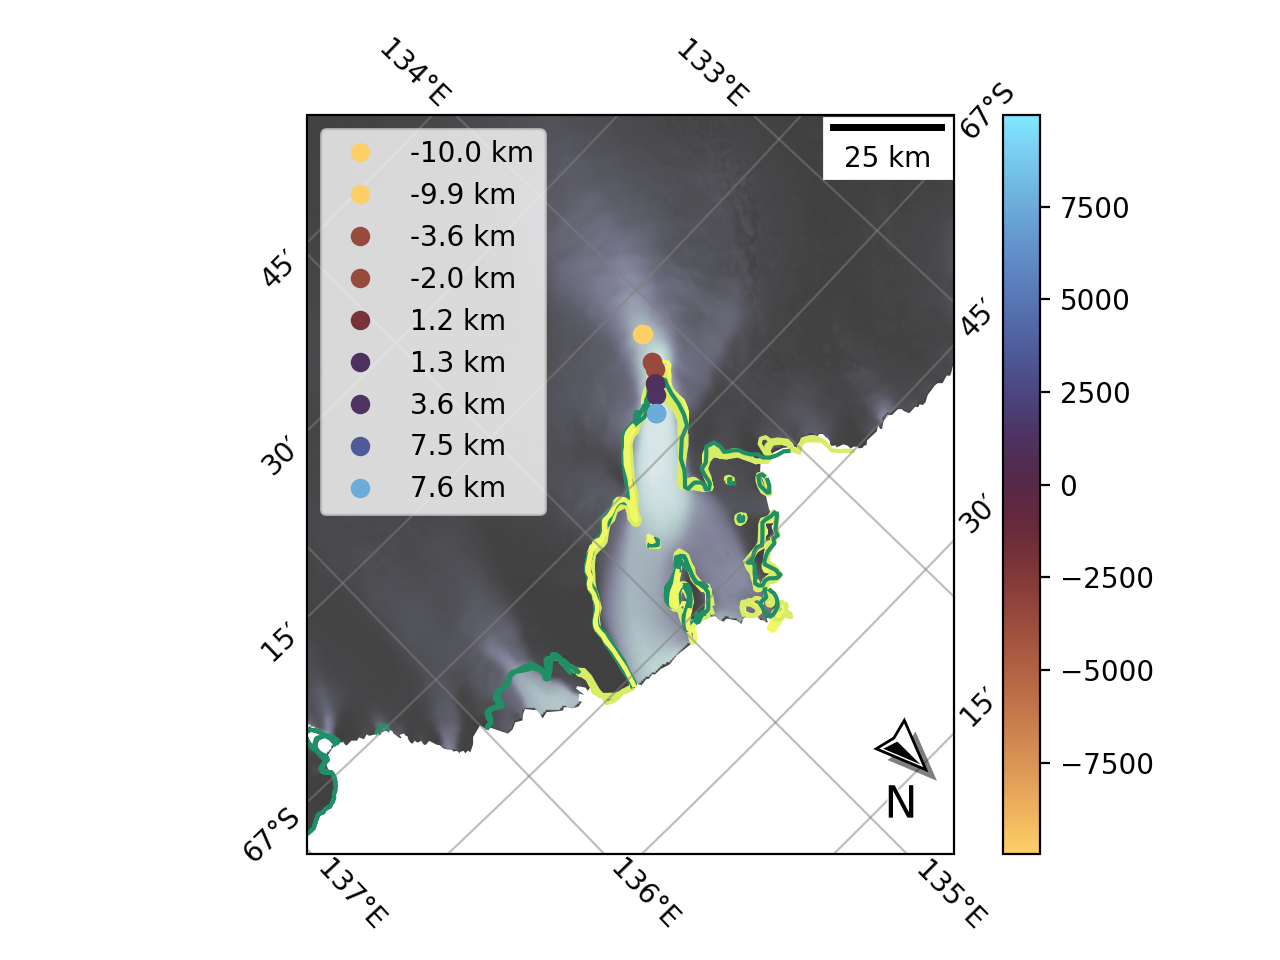
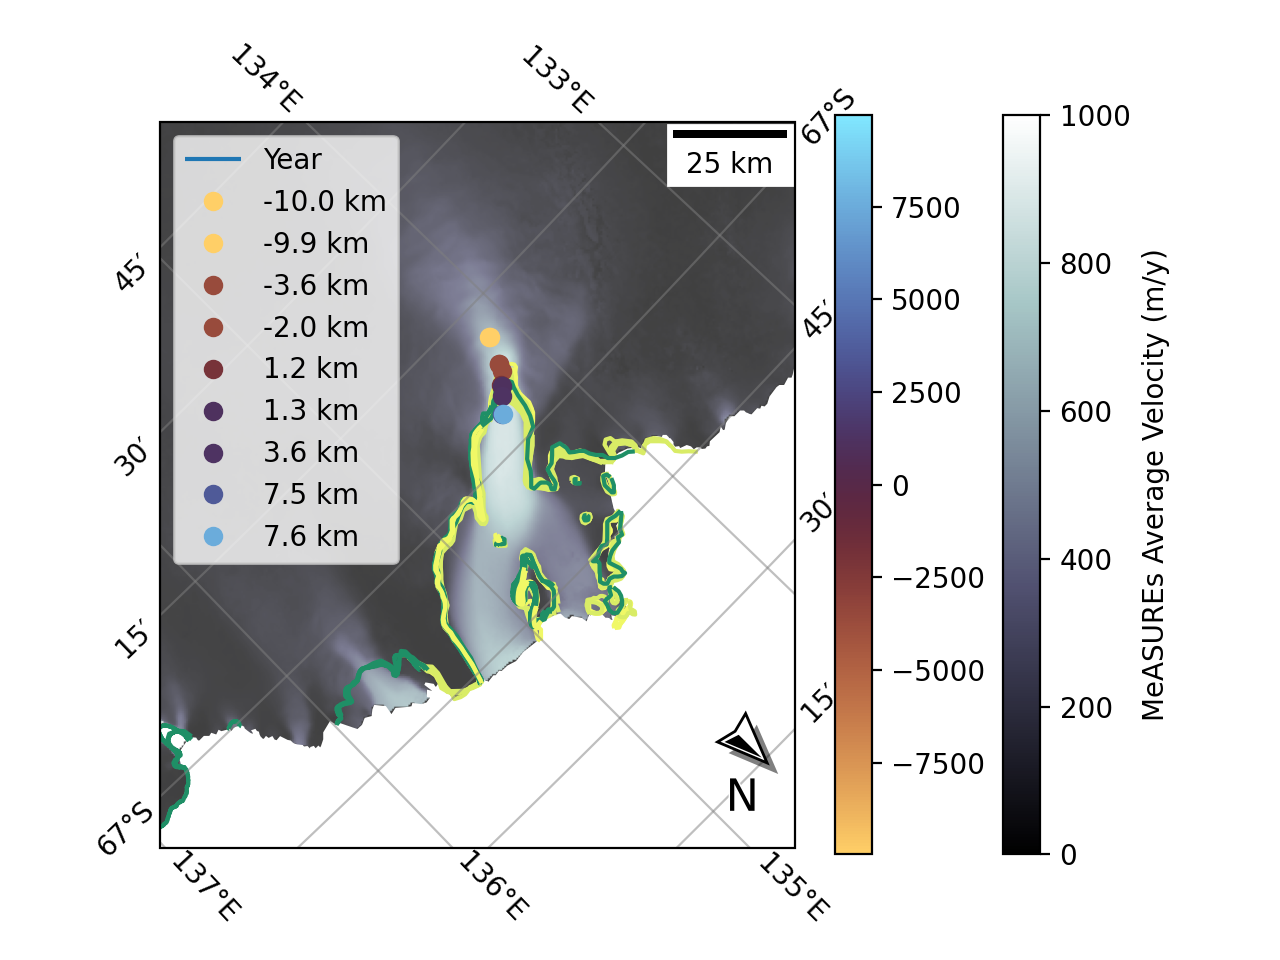
more plotting, like framed velocities

diff --git a/src/plotting.py b/src/plotting.py
@@ -146,16 +146,21 @@ class Plotting:
         self.plot_glacier_borders(fig, ax)
         return True
 
-    def plot_gpkg(self, fig, ax, gpkg, coloring=None, cmap='summer'):
+    def plot_gpkg(self, fig, ax, gpkg, coloring=None, cmap='summer', cbar=False):
         gdf = gpd.read_file(gpkg)
         gdf = gdf.to_crs(3031)
+        
         if coloring != None:
-            gdf.plot(ax=ax, column=coloring, cmap=cmap, autolim=False)
+            gdf.plot(ax=ax, column=coloring, cmap=cmap, autolim=False, label=coloring)
+            if cbar:
+                colorb = plt.cm.ScalarMappable(cmap=cmap, norm=colors.Normalize(vmin=min(gdf[coloring]), vmax=max(gdf[coloring])))
+                fig.colorbar(colorb, orientation='vertical', label=cbar + " " + coloring, ax=ax)
         else:
             gdf.plot(ax=ax, autolim=False)
 
-    def plot_temporal_grounding_line(self, fig, ax, cmap='summer'):
-        self.plot_gpkg(fig, ax, GL_GPKG_InSAR, 'Year', cmap=cmap)
+    def plot_temporal_grounding_line(self, fig, ax, cmap='summer', cbar=False):
+
+        self.plot_gpkg(fig, ax, GL_GPKG_InSAR, 'Year', cmap=cmap, cbar=cbar)
 
     def plot_raw_rema_data(self, na, year):
         try:
@@ -195,7 +200,7 @@ class Plotting:
         
         if legend:
             colorb = plt.cm.ScalarMappable(cmap=cmap, norm=colors.Normalize(vmin=vmin, vmax=vmax))
-            #fig.colorbar(colorb, orientation='vertical', label=label, ax=ax)
+            fig.colorbar(colorb, orientation='vertical', label=label, ax=ax)
         
         
         plt.imshow(img, cmap=cmap, extent = extent, origin='upper', vmin=vmin, vmax=vmax, alpha=alpha, zorder=-10)
@@ -284,7 +289,7 @@ class Plotting:
         fig, ax = self.make_cartopy_plot()
         
         if velocity:
-            self.plot_geotiff("shapefiles/qantarctica_velocities.tif", fig, ax, alpha=vel_a, cmap="bone", label='Velocity from QAntarctica (m/y)')
+            self.plot_geotiff("shapefiles/qantarctica_velocities.tif", fig, ax, alpha=vel_a, cmap="bone", label='MeASUREs Average Velocity (m/y)')
             self.mask_outside()
         self.plot_temporal_grounding_line(fig, ax)
         
@@ -372,7 +377,7 @@ class Plotting:
 
 
 
-    def plot_col(self, gdf, colm, vmax, vmin, cmap, color_label, grounding_color='black', glacial_color='slategrey', velocities=None, extent=None):
+    def plot_col(self, gdf, colm, vmax, vmin, cmap, color_label, grounding_color='black', glacial_color='slategrey', velocities=None, extent=None, g_cbar=False, g_cmap='bone_r'):
         print("Plotting ATL11_" + colm + ".png")
         
         
@@ -382,7 +387,7 @@ class Plotting:
         if extent == None:
             extent = self.extent
         
-        self.plot_temporal_grounding_line(fig, ax, cmap='bone_r')
+        self.plot_temporal_grounding_line(fig, ax, cmap=g_cmap, cbar=g_cbar)
         
         colorb = plt.cm.ScalarMappable(cmap=cmap, norm=colors.Normalize(vmin=vmin, vmax=vmax))
         plt.title(' '.join(color_label.split(' ')[:-2]))
@@ -416,10 +421,62 @@ class Plotting:
         
         plt.close('all')
 
-p = Plotting()
+        
+    def plot_only_geotiff(self, fname, title, label, vmax, vmin, cmap='RdYlBu', extent=None, gl=True, legend=True):
+        if extent == None:
+            extent = self.extent
+        fig, ax = self.make_cartopy_plot()
+        fig.set_figheight(5.8)
 
-gdf = gpd.read_file(ELEVATION_LOCATION)
-p.plot_col(gdf, 'trend', 1, -1, 'bwr_r', "IceSAT2 (2018-2024) Elevation Trend (m/yr)", velocities=None)
+        colorb = plt.cm.ScalarMappable(cmap=cmap, norm=colors.Normalize(vmin=vmin, vmax=vmax))
+        plt.title(title)
+        if gl:
+            self.plot_temporal_grounding_line(fig, ax, cmap='bone_r')
+        
+        
+        if extent == None:
+            extent = self.extent
+
+        if gl != 'only':
+        
+            self.plot_geotiff(fname, fig, ax, alpha=1, cmap=cmap, vmin=vmin, vmax=vmax, legend=legend)
+
+
+        self.mask_outside(extent=extent)
+        self.add_cartopy_reference_info(fig, ax, extent=extent)
+        fig.colorbar(colorb, orientation='vertical', label=label, ax=ax)
+            
+        
+        print("Saving image...")
+        name = OUTPUT + "images/" + title + ".png"
+        plt.savefig(name, dpi=200)
+        print(name)
+        
+        plt.close('all')
+
+        
+    def frame(self):
+        p = Plotting()
+        for f in TO_FRAME.keys():
+            if f.strip() == '':
+                p.plot_only_geotiff(INPUT + 'to_frame/' + f, TO_FRAME[f]['title'], TO_FRAME[f]['label'],
+                                    TO_FRAME[f]['vmax'], TO_FRAME[f]['vmin'], cmap=TO_FRAME[f]['cmap'], gl=TO_FRAME[f]['gl'], legend=False)
+
+            else:
+                p.plot_only_geotiff(INPUT + 'to_frame/' + f, TO_FRAME[f]['title'], TO_FRAME[f]['label'],
+                                    TO_FRAME[f]['vmax'], TO_FRAME[f]['vmin'], cmap=TO_FRAME[f]['cmap'], gl=TO_FRAME[f]['gl'], legend=False)
+
+
+    def plot_IPR_range(self, fm, frame):
+        out = fm.get_ouput_files()
+
+        out = out[out['FRAME'] == frame]
+        total_dist=50
+        out['Distance'] = total_dist * ((out['UTCTIMESOD'] - min(out['UTCTIMESOD'])) / (max(out['UTCTIMESOD']) - min(out['UTCTIMESOD'])))
+        print(out) 
+        #8778, 8393,
+        self.plot_col(out, 'Distance', total_dist, 0, 'winter', 'Distance (km)',g_cbar='Grounding Line', g_cmap='magma')
+        
 
 '''
 # EXAMPLE USES:

diff --git a/src/file_manager.py b/src/file_manager.py
@@ -528,7 +528,7 @@ class ElevationManager(FileManager):
                 continue
 
             if self.data + '_yerr' in df.columns:
-                found_err.append(df[self.data + '_yerr'].values)
+                found_err.append(df['elev_yerr'].values)
 
             found_files.append(df['band_data'].values)
             found_years.append(years[i])
@@ -537,9 +537,9 @@ class ElevationManager(FileManager):
 
         dataset = {'time': found_years,
                            'sources': found_sources,
-                           self.data: found_files}
+                           'elevation': found_files}
         if len(found_err) != 0:
-            dataset[[self.data + '_yerr']] = found_err
+            dataset[['elev_yerr']] = found_err
 
 
 
@@ -662,13 +662,13 @@ class ElevationManager(FileManager):
             dates = (track['delta_time'].astype('timedelta64[s]') + np.datetime64("2018-01-01T00:00")).astype('M8[Y]')
             track['latitude'] = np.transpose([track['latitude']] * len(track['h_corr'][0]))
             track['longitude'] = np.transpose([track['longitude']] * len(track['h_corr'][0]))
-            track['datetime'] = track['delta_time'].astype('timedelta64[s]') + np.datetime64("2018-01-01T00:00")
+            track['datetime'] = (track['delta_time'].astype('timedelta64[s]') + np.datetime64("2018-01-01T00:00")).astype('datetime64[s]').astype('int64')
 
             for c in self.file.keys():
                 df = pd.DataFrame({'latitude': track['latitude'][dates == c].flatten(),
                                     'longitude': track['longitude'][dates == c].flatten(), 
                                     'elevation': track['h_corr'][dates == c].flatten(),
-                                    'elevation_yerr': track['h_corr_sigma'][dates == c].flatten(),
+                                    'elev_yerr': track['h_corr_sigma'][dates == c].flatten(),
                                     'date': track['datetime'][dates == c].flatten()})
                 df['geometry'] = df.apply(self.pointify, axis=1)
                 self.file[c] = pd.concat([self.file[c], df])
@@ -685,8 +685,9 @@ class ElevationManager(FileManager):
             try:
                 gdf_final = gpd.GeoDataFrame(self.file[c], geometry='geometry', crs='EPSG:4326')
                 gdf_final.to_file(TIF_LOCATION + self.get_elevation_fname(c), driver='GPKG')
-            except:
+            except Exception as e:
                     ('Saving year ' + str(c) + ' gpkg failed.')
+                    print(e)
             
             out_grid = make_geocube(
                 vector_data=gdf_final,

diff --git a/src/main.py b/src/main.py
@@ -4,11 +4,12 @@ import os
 from utils import *
 
 
-from file_manager import VelocityManager, ElevationManager, GravimetryManager, FirnAirManager,  plt
+from file_manager import VelocityManager, ElevationManager, GravimetryManager, FirnAirManager,  IPRManager, plt
 from timeseries import VelTimeSeries
 from elevation_errpr import ElevationError
 from pointwise import Pointwize
 import matplotlib.pyplot as plt
+from plotting import Plotting
 
 
 class main():
@@ -108,6 +109,23 @@ class main():
                 print(self.build_files(data=x))
 
 
+
+        '''t = VelTimeSeries(self.flags, self.xlim, self.ylim, 'vel', years=[2000, 2025])
+        t.generate_charts("Velocity Trends")'''
+
+        '''t = Trends(self.flags, self.xlim, self.ylim, 'vel')
+        t.plot_trends()'''
+        
+        '''p = Profile(self.flags, POINT_LISTS[self.title][0]['point'], self.xlim, self.ylim)
+        p.plot_profile()'''
+        #fm = IPRManager([0,0], [0,0], self.flags, 'elev', 'IPR')
+        #p = Plotting()
+        #p.plot_IPR_range(fm, GL_IPR_FRAME)
+
+
+        if self.flags.chart_type() == 'frame':
+            p = Plotting()
+            p.frame()
 
         if self.flags.chart_type() == 'points':
             self.point_name = self.title
@@ -215,7 +233,7 @@ class main():
 
     
 
-    def get_points_timeline(self, point, data = ['grav', 'vel', 'elev'], change = True, rema=False): #['vel', 'elev', 'grav'] #  'vel', 'elev', 'firn'
+    def get_points_timeline(self, point, data = ['gl', 'elev', 'vel', 'grav', 'firn'], change = True, rema=False): #['vel', 'elev', 'grav'] #  'vel', 'elev', 'firn'
 
         labels = {
             'vel': "Velocity Change since 2020 (%)",
@@ -228,7 +246,7 @@ class main():
 
         can_change = {
             'vel': 'interp%',
-            'elev': 'interp%',
+            'elev': 'interp',
             'grav': True,
             'gl': False,
             'firn': False,

diff --git a/src/pointwise.py b/src/pointwise.py
@@ -326,11 +326,31 @@ class Pointwize():
 
         all_results_time = self.results[list(self.results.keys())[0]]['time']
         all_results_values = self.results[list(self.results.keys())[0]][self.data]
+
+        
+
         for p in self.results.keys():
             if p == list(self.results.keys())[0]:
                 continue
             all_results_time =  np.concat([all_results_time, self.results[p]['time']])
             all_results_values = np.concat([all_results_values, self.results[p][self.data]])
+
+
+        print(all_results_time)
+        print(all_results_values)
+        '''
+
+        for j, p in enumerate(self.results.keys()):
+            self.results[p] = self.results[p].dropna()
+            ls = 'None'
+            color = sm.to_rgba(self.labels[j])
+            ax.plot(self.results[p]['time'], 
+                            self.results[p][self.data].values, marker= 'None', color=color)
+        
+        good_type = []
+        for x in range(len(all_results_time)):
+            good_type.append(pd.to_datetime(all_results_time[x]))'''
+        
 
         self.set_range_only_in_frame(ax, all_results_time, all_results_values, plot_range, 'y')
         ax.set_xlim((plot_range[0], plot_range[1]))
@@ -343,7 +363,7 @@ class Pointwize():
                 ax.plot([], [], label = s, marker= shapes_set[s], color=sm.to_rgba(0), linestyle='None')
 
 
-
+        print(self.results[p].columns)
 
         for j, p in enumerate(self.results.keys()):
             self.results[p] = self.results[p].dropna()
@@ -418,6 +438,7 @@ class Pointwize():
         out = df_ref = gpd.sjoin_nearest(self.fl, out, max_distance=self.max_dist*10)
 
         out = out.sort_values('dist_from_grndline')
+        print(out)
         bad_out = out.copy(deep=True)
         out['real_elevation1'] = out['real_elevation1'].where(out['dist_from_grndline'] < 0)
 

diff --git a/src/utils.py b/src/utils.py
@@ -29,6 +29,61 @@ POINT_LISTS = {
         },
     ]
 }
+
+TO_FRAME = {
+    'itslive_trends.tif': {
+        'title': 'ItsLive (2018-2024) Velocity Trends',
+        'label': 'Trend (m/yr²)',
+        'vmin': -10,
+        'vmax': 10,
+        'cmap': 'RdYlGn',
+        'gl': True
+    },
+    'itslive_r2.tif': {
+        'title': ' ItsLive (2018-2024) Velocity Trends ',
+        'label': 'R²',
+        'vmin': 0,
+        'vmax': 1,
+        'cmap': 'Greys_r',
+        'gl': False
+    },
+    'measures_trends.tif': {
+        'title': ' MEaSUREs (2018-2024) Velocity Trends ',
+        'label': 'Trend (m/yr²)',
+        'vmin': -10,
+        'vmax': 10,
+        'cmap': 'RdYlGn',
+        'gl': True
+    },
+    'measures_r2.tif': {
+        'title': ' MEaSUREs (2018-2024) Velocity Trends  ',
+        'label': 'R²',
+        'vmin': 0,
+        'vmax': 1,
+        'cmap': 'Greys_r',
+        'gl': False
+    },
+    '': {
+        'title': '   (2018-2024) Velocity Trends    ',
+        'label': 'Trend',
+        'vmin': 0,
+        'vmax': 1,
+        'cmap': 'Greys_r',
+        'gl': 'only'
+    },
+    ' ': {
+        'title': '  ItsLive (2018-2024) Velocity Trends  ',
+        'label': '',
+        'vmin': 0,
+        'vmax': 1,
+        'cmap': 'Greys_r',
+        'gl': 'only'
+    },
+}
+
+GL_IPR_FRAME = 2019102408003
+
+
 POINT_LISTS2 = {
 
     'Dibble' : [
@@ -161,6 +216,10 @@ MAX_ERR = 5000
 
 REMA_CLOUD_LEVEL = 10
 REMA_BACKGROUND_LEVEL = 0
+
+
+
+OPACITY_CMAP = [0,0,0]
 
 
 def overall_velocity(vx, vy):
